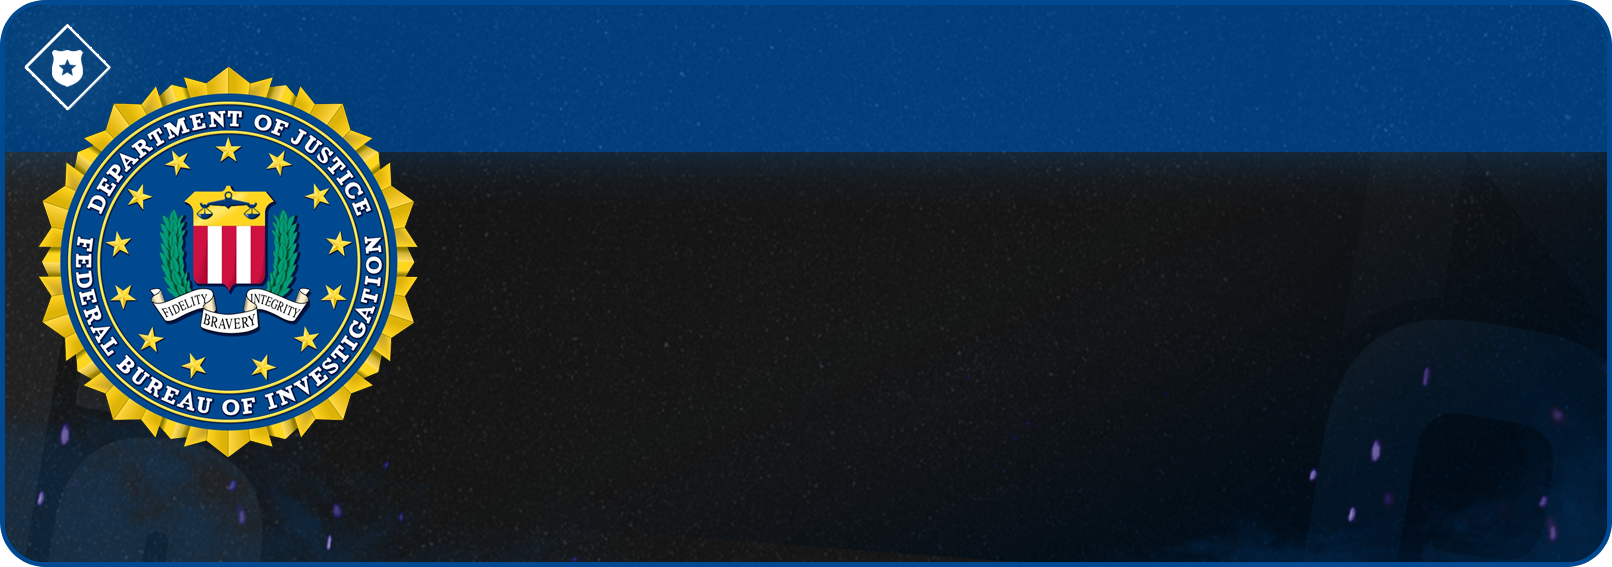
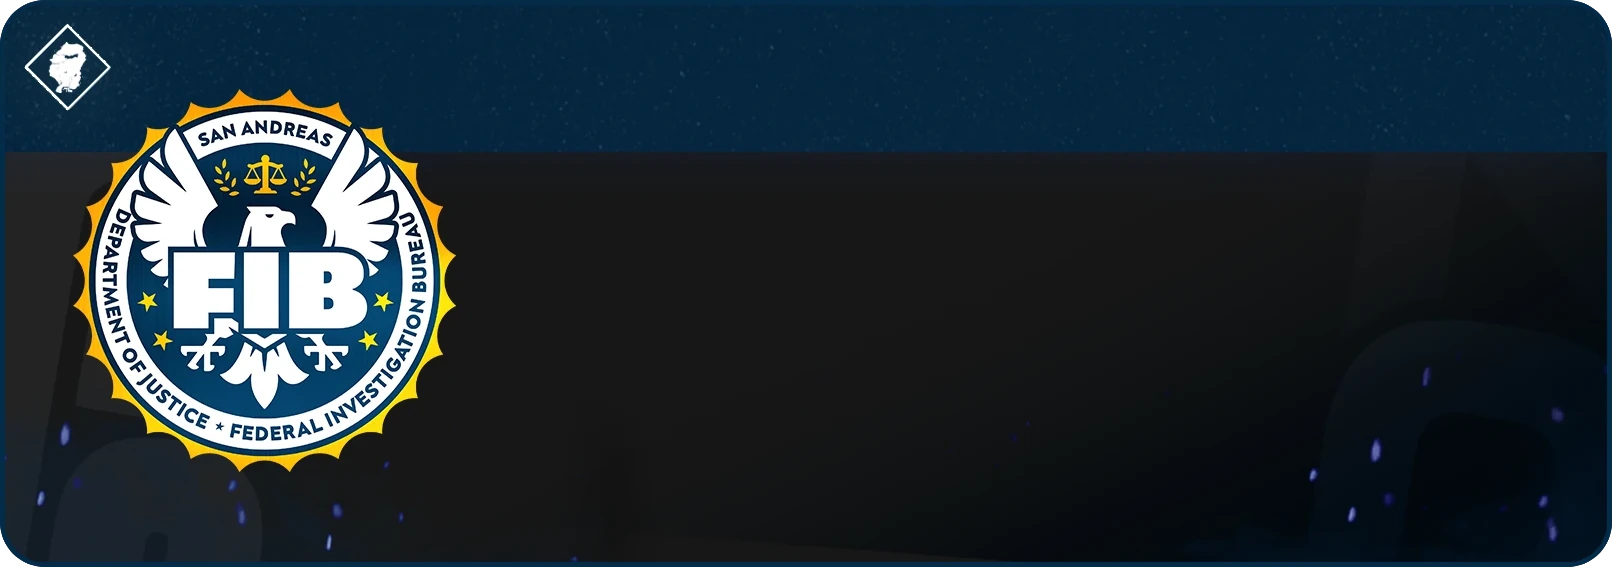
Update image for FIB annonce and add Presidential annonce

diff --git a/resources/[soz]/soz-core/src/nui/components/Hud/NewsBanner.tsx b/resources/[soz]/soz-core/src/nui/components/Hud/NewsBanner.tsx
@@ -37,7 +37,12 @@ const Banner: FunctionComponent<BannerProps> = ({ index, news, onDelete }) => {
 
         if (['lspd', 'bcso', 'sasp'].includes(news.type)) {
             return 'Avis de recherche';
-        } else if (type === 'fbi_annoncement' || type === 'sasp_annoncement' || type === 'gouv') {
+        } else if (
+            type === 'fbi_annoncement' ||
+            type === 'sasp_annoncement' ||
+            type === 'gouv' ||
+            type === 'presidence'
+        ) {
             return 'Annonce';
         } else {
             return type;
@@ -45,24 +50,34 @@ const Banner: FunctionComponent<BannerProps> = ({ index, news, onDelete }) => {
     };
 
     let backgroundImage;
+    let authorType = 'Reporter:';
 
     switch (news.type) {
         case 'lspd':
             backgroundImage = '/public/images/twitch-news/lspd.webp';
+            authorType = 'Agent:';
             break;
         case 'bcso':
             backgroundImage = '/public/images/twitch-news/bcso.webp';
+            authorType = 'Agent:';
             break;
         case 'fbi':
         case 'fbi_annoncement':
             backgroundImage = '/public/images/twitch-news/fbi.webp';
+            authorType = 'Agent:';
             break;
         case 'sasp':
         case 'sasp_annoncement':
             backgroundImage = '/public/images/twitch-news/sasp.webp';
+            authorType = 'Agent:';
             break;
         case 'gouv':
             backgroundImage = '/public/images/twitch-news/gouv.webp';
+            authorType = 'Agent:';
+            break;
+        case 'presidence':
+            backgroundImage = '/public/images/twitch-news/presidence.webp';
+            authorType = '';
             break;
         case 'reboot_5':
             backgroundImage = 'https://soz.zerator.com/static/images/reboot_5.png';
@@ -107,7 +122,7 @@ const Banner: FunctionComponent<BannerProps> = ({ index, news, onDelete }) => {
                             <div className="flex flex-col justify-between p-1 h-full">
                                 <p className="max-h-40 overflow-hidden break-words">{news.message}</p>
                                 <p className="text-right pr-4 text-lg">
-                                    Reporter: <strong>{news.reporter}</strong>
+                                    {authorType} <strong>{news.reporter}</strong>
                                 </p>
                             </div>
                         )}
